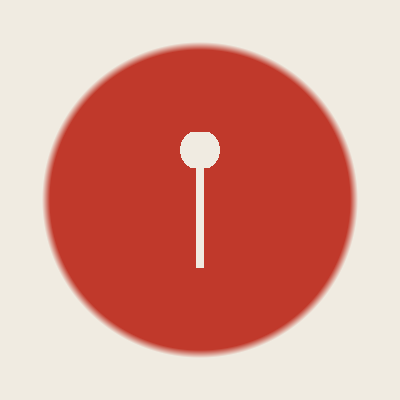
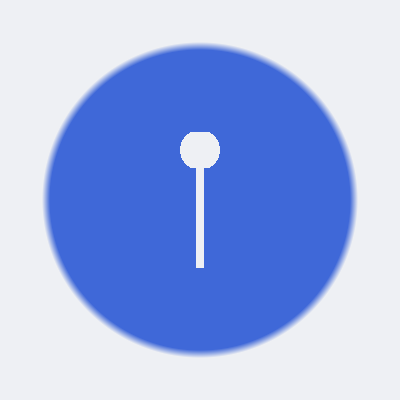
Take the Board's colours from the admin panel
Warm paper and brick red were a guess at what a noticeboard should look
like. The panel has an actual palette that has been lived with: a cool
slate ground, one confident blue, and — the part worth borrowing most — a
semantic set of green, amber, violet and red held separate from the
accent, so a colour that means something never competes with the colour
that just is the brand.

Topics now take that set rather than six hues chosen only to differ from
one another.

The accent variables were called --red, --red-ink and --red-soft, which
stopped being true the moment the accent turned blue. Renamed to --accent
so the file does not have to be read twice. Shadows lost their warm tint,
which fights a cool ground.

The serif stays. The panel is a dense tool read in glances and is right to
be sans throughout; this is a page of people's words, and a serif is what
makes it a board rather than a dashboard. Same palette, different job.

share.png regenerated to match, since a share card carrying the old accent
is the one place the change would be visible to somebody who never opens
the site.

Claude-Session: https://claude.ai/code/session_011uP6cYAgEBge7SwTfEThRz

diff --git a/board/public/index.html b/board/public/index.html
@@ -24,29 +24,29 @@
      page that waits on it is a page that does not load. Everything here is a
      face the device already has, Chinese ones named first for Chinese text. */
   :root{
-    --paper:#F0EBE1; --raise:#F6F2EA; --ink:#1C1A16; --ink-2:#413C33;
-    --muted:#8A8377; --line:#DCD5C7; --hair:#E4DED2;
-    --red:#C0392B; --red-ink:#FFFFFF; --red-soft:#EFDDD8;
-    --t1:#C0392B; --t2:#2D6485; --t3:#8B3A62; --t4:#4A6B3A; --t5:#B4691A; --t6:#5B4A8A;
+    --paper:#EEF0F4; --raise:#F7F8FB; --ink:#151B28; --ink-2:#4E5968;
+    --muted:#8A939F; --line:#E3E6EC; --hair:#EAECF1;
+    --accent:#3F68D8; --accent-ink:#FFFFFF; --accent-soft:#E8ECF7;
+    --t1:#3F68D8; --t2:#2A9D63; --t3:#D99038; --t4:#7268C4; --t5:#D4485C; --t6:#2F8C9E;
     --serif:Georgia,"Songti SC","Noto Serif CJK SC",'Times New Roman',serif;
     --sans:-apple-system,BlinkMacSystemFont,"Segoe UI","PingFang SC",
       "Hiragino Sans GB","Microsoft YaHei","Noto Sans SC",sans-serif;
-    --shadow:0 2px 6px rgba(28,26,22,.09),0 10px 28px rgba(28,26,22,.10);
+    --shadow:0 2px 6px rgba(21,27,40,.07),0 10px 28px rgba(21,27,40,.09);
   }
   @media (prefers-color-scheme:dark){
     :root:not([data-theme="light"]){
-      --paper:#151310; --raise:#1E1B17; --ink:#F2EDE3; --ink-2:#CDC6B8;
-      --muted:#948C7E; --line:#2E2A24; --hair:#272420;
-      --red:#D4564A; --red-ink:#1A1512; --red-soft:#3A211D;
-      --t1:#D4564A; --t2:#6EA3C4; --t3:#C4759C; --t4:#89AD73; --t5:#D89440; --t6:#9A87C9;
+      --paper:#0B0E15; --raise:#141924; --ink:#E9EDF5; --ink-2:#A3B0C4;
+      --muted:#6F7D92; --line:#232B39; --hair:#1E2531;
+      --accent:#5C8DFF; --accent-ink:#0B0E15; --accent-soft:#18233D;
+      --t1:#5C8DFF; --t2:#4EBE88; --t3:#E4A65A; --t4:#9187E0; --t5:#F0687C; --t6:#4FA9BC;
       --shadow:0 2px 6px rgba(0,0,0,.4),0 12px 32px rgba(0,0,0,.34);
     }
   }
   :root[data-theme="dark"]{
-    --paper:#151310; --raise:#1E1B17; --ink:#F2EDE3; --ink-2:#CDC6B8;
-    --muted:#948C7E; --line:#2E2A24; --hair:#272420;
-    --red:#D4564A; --red-ink:#1A1512; --red-soft:#3A211D;
-    --t1:#D4564A; --t2:#6EA3C4; --t3:#C4759C; --t4:#89AD73; --t5:#D89440; --t6:#9A87C9;
+    --paper:#0B0E15; --raise:#141924; --ink:#E9EDF5; --ink-2:#A3B0C4;
+    --muted:#6F7D92; --line:#232B39; --hair:#1E2531;
+    --accent:#5C8DFF; --accent-ink:#0B0E15; --accent-soft:#18233D;
+    --t1:#5C8DFF; --t2:#4EBE88; --t3:#E4A65A; --t4:#9187E0; --t5:#F0687C; --t6:#4FA9BC;
     --shadow:0 2px 6px rgba(0,0,0,.4),0 12px 32px rgba(0,0,0,.34);
   }
 
@@ -62,12 +62,12 @@
   main{max-width:34rem;margin:0 auto;padding:1.5rem 1.15rem 9.5rem}
   img{max-width:100%}
   button{font:inherit;cursor:pointer}
-  :focus-visible{outline:2px solid var(--red);outline-offset:2px;border-radius:4px}
+  :focus-visible{outline:2px solid var(--accent);outline-offset:2px;border-radius:4px}
 
   /* ---- masthead ---------------------------------------------------------- */
   .top{display:flex;align-items:center;gap:.9rem;margin:.5rem 0 1.6rem}
   .mark{width:4.1rem;height:4.1rem;border-radius:50%;flex:0 0 auto;overflow:hidden;
-    background:var(--red);color:var(--red-ink);display:grid;place-items:center;
+    background:var(--accent);color:var(--accent-ink);display:grid;place-items:center;
     font-family:var(--serif);font-size:1.9rem;line-height:1;
     box-shadow:0 0 0 3px var(--paper),0 0 0 4px var(--line)}
   /* Also the share thumbnail. It is a real <img> rather than a background so
@@ -88,9 +88,9 @@
     white-space:nowrap;transition:background .12s,border-color .12s}
   .chip .dot{width:.5rem;height:.5rem;border-radius:50%;background:var(--muted)}
   .chip .n{color:var(--muted);font-size:.86rem;font-variant-numeric:tabular-nums}
-  .chip[aria-pressed="true"]{background:var(--red);border-color:var(--red);color:var(--red-ink)}
-  .chip[aria-pressed="true"] .dot{background:var(--red-ink);opacity:.6}
-  .chip[aria-pressed="true"] .n{color:var(--red-ink);opacity:.75}
+  .chip[aria-pressed="true"]{background:var(--accent);border-color:var(--accent);color:var(--accent-ink)}
+  .chip[aria-pressed="true"] .dot{background:var(--accent-ink);opacity:.6}
+  .chip[aria-pressed="true"] .n{color:var(--accent-ink);opacity:.75}
 
   /* ---- the rule that names what you are looking at ----------------------- */
   .rule{display:flex;align-items:center;gap:.9rem;margin:0 0 .4rem}
@@ -101,9 +101,9 @@
   /* ---- a post ------------------------------------------------------------ */
   .post{display:flex;gap:.9rem;padding:1.35rem 0;border-bottom:1px solid var(--hair)}
   .av{width:3.4rem;height:3.4rem;border-radius:50%;flex:0 0 auto;
-    background:var(--red);color:var(--red-ink);display:grid;place-items:center;
+    background:var(--accent);color:var(--accent-ink);display:grid;place-items:center;
     font-family:var(--serif);font-size:1.35rem;line-height:1;
-    box-shadow:0 0 0 3px var(--paper),0 0 0 4px var(--red-soft)}
+    box-shadow:0 0 0 3px var(--paper),0 0 0 4px var(--accent-soft)}
   .body{flex:1;min-width:0}
 
   .eyebrow{display:flex;align-items:center;gap:.45rem;margin:0 0 .3rem}
@@ -130,12 +130,12 @@
   .acts{display:flex;align-items:center;gap:1.15rem;margin:.85rem 0 0;flex-wrap:wrap}
   .acts button{display:inline-flex;align-items:center;gap:.4rem;border:0;
     background:none;color:var(--ink-2);font-size:.92rem;padding:.15rem 0}
-  .acts button:hover{color:var(--red)}
+  .acts button:hover{color:var(--accent)}
   .acts button[disabled]{opacity:.45;cursor:default}
   .acts svg{width:1rem;height:1rem;stroke:currentColor;fill:none;
     stroke-width:1.6;stroke-linecap:round;stroke-linejoin:round;flex:0 0 auto}
   .acts .n{color:var(--muted);font-size:.86rem;font-variant-numeric:tabular-nums}
-  .acts .liked{color:var(--red)}
+  .acts .liked{color:var(--accent)}
   .acts .liked svg{fill:currentColor;stroke:currentColor}
 
   /* ---- the thread underneath --------------------------------------------- */
@@ -149,8 +149,8 @@
   .rbox input{flex:1;min-width:0;border:1px solid var(--line);background:var(--raise);
     border-radius:99px;padding:.5rem .9rem;font:inherit;font-size:.95rem;
     color:var(--ink);outline:none}
-  .rbox input:focus{border-color:var(--red)}
-  .rbox button{border:0;background:var(--red);color:var(--red-ink);border-radius:99px;
+  .rbox input:focus{border-color:var(--accent)}
+  .rbox button{border:0;background:var(--accent);color:var(--accent-ink);border-radius:99px;
     padding:.5rem 1.05rem;font-size:.9rem}
 
   /* ---- nothing there yet -------------------------------------------------- */
@@ -161,14 +161,14 @@
 
   /* ---- the + ------------------------------------------------------------- */
   .fab{position:fixed;right:1.2rem;bottom:1.6rem;width:4rem;height:4rem;
-    border-radius:50%;border:0;background:var(--red);color:var(--red-ink);
+    border-radius:50%;border:0;background:var(--accent);color:var(--accent-ink);
     box-shadow:var(--shadow);display:grid;place-items:center;z-index:30}
   .fab svg{width:1.7rem;height:1.7rem;stroke:currentColor;stroke-width:2;
     stroke-linecap:round;fill:none}
 
   /* ---- putting something up ---------------------------------------------- */
   .sheet{position:fixed;inset:0;z-index:40;display:flex;align-items:flex-end;
-    justify-content:center;background:rgba(28,26,22,.4)}
+    justify-content:center;background:rgba(21,27,40,.42)}
   .sheet .card{width:100%;max-width:34rem;background:var(--paper);
     border-radius:1.1rem 1.1rem 0 0;padding:1.3rem 1.15rem calc(1.3rem + env(safe-area-inset-bottom));
     box-shadow:var(--shadow);overflow-y:auto;
@@ -181,36 +181,36 @@
   .sheet textarea{width:100%;border:1px solid var(--line);background:var(--raise);
     border-radius:.7rem;padding:.85rem;font:inherit;font-family:var(--serif);
     font-size:1.08rem;line-height:1.55;color:var(--ink);resize:vertical;outline:none}
-  .sheet textarea:focus{border-color:var(--red)}
+  .sheet textarea:focus{border-color:var(--accent)}
   .field{display:flex;gap:.6rem;margin:.8rem 0 0}
   .field input,.field select{flex:1;min-width:0;border:1px solid var(--line);
     background:var(--raise);border-radius:99px;padding:.6rem .95rem;font:inherit;
     font-size:.95rem;color:var(--ink);outline:none}
-  .field input:focus,.field select:focus{border-color:var(--red)}
+  .field input:focus,.field select:focus{border-color:var(--accent)}
   .row{display:flex;align-items:center;gap:.6rem;margin:.9rem 0 0}
   .ghost{border:1px solid var(--line);background:var(--raise);color:var(--ink);
     border-radius:99px;padding:.6rem 1.1rem;font-size:.92rem}
-  .go{margin-left:auto;border:0;background:var(--red);color:var(--red-ink);
+  .go{margin-left:auto;border:0;background:var(--accent);color:var(--accent-ink);
     border-radius:99px;padding:.68rem 1.5rem;font-size:.98rem}
   .go[disabled]{opacity:.5;cursor:default}
   .shot{position:relative;margin:.8rem 0 0}
   .shot img{display:block;width:100%;border-radius:.7rem}
   .shot button{position:absolute;top:.5rem;right:.5rem;width:2rem;height:2rem;
-    border-radius:50%;border:0;background:rgba(28,26,22,.72);color:#fff;
+    border-radius:50%;border:0;background:rgba(21,27,40,.72);color:#fff;
     font-size:1.1rem;line-height:1;display:grid;place-items:center}
   .said{margin:.85rem 0 0;font-size:.92rem;line-height:1.5;color:var(--ink-2)}
   .hint{margin:0 0 .9rem;font-size:.86rem;line-height:1.55;color:var(--muted)}
   .reasons{display:flex;gap:.4rem;flex-wrap:wrap;margin:0 0 .8rem}
   .reasons button{border:1px solid var(--line);background:var(--raise);color:var(--ink);
     border-radius:99px;padding:.45rem .9rem;font-size:.88rem;line-height:1}
-  .reasons button[aria-pressed="true"]{background:var(--red);border-color:var(--red);
-    color:var(--red-ink)}
+  .reasons button[aria-pressed="true"]{background:var(--accent);border-color:var(--accent);
+    color:var(--accent-ink)}
   .alsoblock{display:flex;align-items:flex-start;gap:.6rem;margin:.85rem 0 0;
     font-size:.9rem;line-height:1.45;color:var(--ink-2);cursor:pointer}
   .alsoblock input{margin:.15rem 0 0;flex:0 0 auto;width:1.05rem;height:1.05rem;
-    accent-color:var(--red)}
+    accent-color:var(--accent)}
   .alsoblock b{font-weight:400;color:var(--ink)}
-  .said.bad{color:var(--red)}
+  .said.bad{color:var(--accent)}
 
   .foot{margin:2.5rem 0 0;padding-top:1.3rem;border-top:1px solid var(--line);
     color:var(--muted);font-size:.82rem;line-height:1.65}
